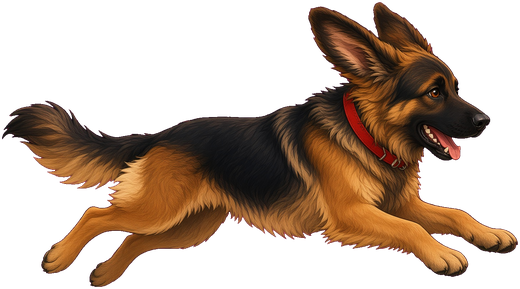
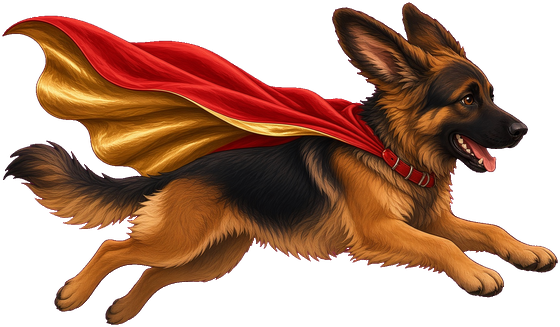
Flip the biplane, pop every balloon, cape Flappy Bernard
Planes now nose toward the right. Any balloon can be shot; cat
balloons still score extra. Flappy Bernard wears a red cape.

diff --git a/arcade.js b/arcade.js
@@ -2918,7 +2918,7 @@ function drawCloud(x,y,s){
 function drawFlapBernard(){
   const b=F.bird;
   const wing = Math.sin(b.wing)*(b.flap>0?1:.55);
-  if (drawSprC("fly", b.x, b.y, 96, 54, b.tilt)) return;
+  if (drawSprC("fly", b.x, b.y, 118, 66, b.tilt)) return;
   ctx.save();
   ctx.translate(b.x,b.y);
   ctx.rotate(b.tilt);
@@ -3748,7 +3748,7 @@ const A_TOP   = 70, A_BOT = 556;      // flyable band
 let A = null, abg = null;
 let A_PLANE = "biplane";              // "biplane" | "jet"
 
-const A_PTS = { bird:15, plane:50, cat:200, close:20 };
+const A_PTS = { bird:15, plane:50, balloon:40, cat:200, close:20 };
 const A_XMIN = 90, A_XMAX = 560;            // how far the plane can roam on screen
 const A_LIVES = 3, A_INV = 1.5;
 const A_WEAPONS = [
@@ -4004,18 +4004,25 @@ function updateAir(dt){
   }
   A.gusts=A.gusts.filter(g=>aX(g.wx)>-320);
 
-  // ---- balloons (cat ones are shootable + popping)
+  // ---- balloons (all shootable; cat balloons score more)
   for (const bl of A.balloons){
     if (bl.popped) continue;
     const bx=aX(bl.wx), by=bl.y+Math.sin(A.t*1.3+bl.bob)*7;
-    if (bl.cat) for (const sh of A.shots){
-      if (Math.abs(sh.x-bx)<34 && Math.abs(sh.y-by)<40){
-        bl.popped=true; sh.life=0; A.cats++;
-        sfx.yowl(); aBurst(bx,by,"#ff8fc4",30,280);
+    for (const sh of A.shots){
+      if (Math.abs(sh.x-bx)<38 && Math.abs(sh.y-by)<50){
+        bl.popped=true; sh.life=0;
         const cols=["#ffcf3a","#b6f23a","#ff8fc4","#6fd0ff","#fff6c9"];
-        for(let i=0;i<70;i++) A.confetti.push({ x:bx+rand(-30,30), y:by+rand(-30,30), vx:rand(-120,120), vy:rand(-160,40), sz:rand(6,12), rot:rand(0,6.3), vr:rand(-8,8), col:cols[i%5], life:rand(1.6,3) });
-        aGain(A_PTS.cat,bx,by,"CAT BALLOON!","#ff8fc4");
-        aToast("YOWL!","#ff8fc4",bx,by-70);
+        if (bl.cat){
+          A.cats++;
+          sfx.yowl(); aBurst(bx,by,"#ff8fc4",30,280);
+          for(let i=0;i<70;i++) A.confetti.push({ x:bx+rand(-30,30), y:by+rand(-30,30), vx:rand(-120,120), vy:rand(-160,40), sz:rand(6,12), rot:rand(0,6.3), vr:rand(-8,8), col:cols[i%5], life:rand(1.6,3) });
+          aGain(A_PTS.cat,bx,by,"CAT BALLOON!","#ff8fc4");
+          aToast("YOWL!","#ff8fc4",bx,by-70);
+        } else {
+          sfx.pick("gold"); aBurst(bx,by,"#ffd36a",22,220);
+          for(let i=0;i<28;i++) A.confetti.push({ x:bx+rand(-22,22), y:by+rand(-22,22), vx:rand(-90,90), vy:rand(-140,30), sz:rand(5,10), rot:rand(0,6.3), vr:rand(-8,8), col:cols[i%5], life:rand(1.1,2.2) });
+          aGain(A_PTS.balloon,bx,by,"BALLOON!","#ffd36a");
+        }
         break;
       }
     }
@@ -4098,7 +4105,7 @@ function drawAirPlane(x,y,tilt,type,xray,dim){
   if (!xray && !dim){
     const key=type==="jet"?"jet":"biplane";
     const sz=type==="jet"?[176,86]:[168,94];
-    if (drawSprC(key,x,y,sz[0],sz[1],tilt)) return;
+    if (drawSprC(key,x,y,sz[0],sz[1],tilt,true)) return;
   }
   ctx.save(); ctx.translate(x,y); ctx.rotate(tilt);
   if (dim) ctx.globalAlpha=.4;

diff --git a/index.html b/index.html
@@ -84,7 +84,7 @@
         <div class="panel">
           <div class="menubar">
             <div class="kicker">Nobody checked his licence</div>
-            <div class="tagline">Fly right, collect balls, shoot the birds and the enemy planes. Storm clouds flash before they strike &mdash; get clear. If a cat balloon drifts by, pop it.</div>
+            <div class="tagline">Fly right, collect balls, shoot the birds, the balloons and the enemy planes. Storm clouds flash before they strike &mdash; get clear. A cat balloon is worth extra.</div>
             <div class="chooser">
               <button class="who chosen" id="airBiplane">Biplane</button>
               <button class="who" id="airJet">Firefighter Jet</button>
